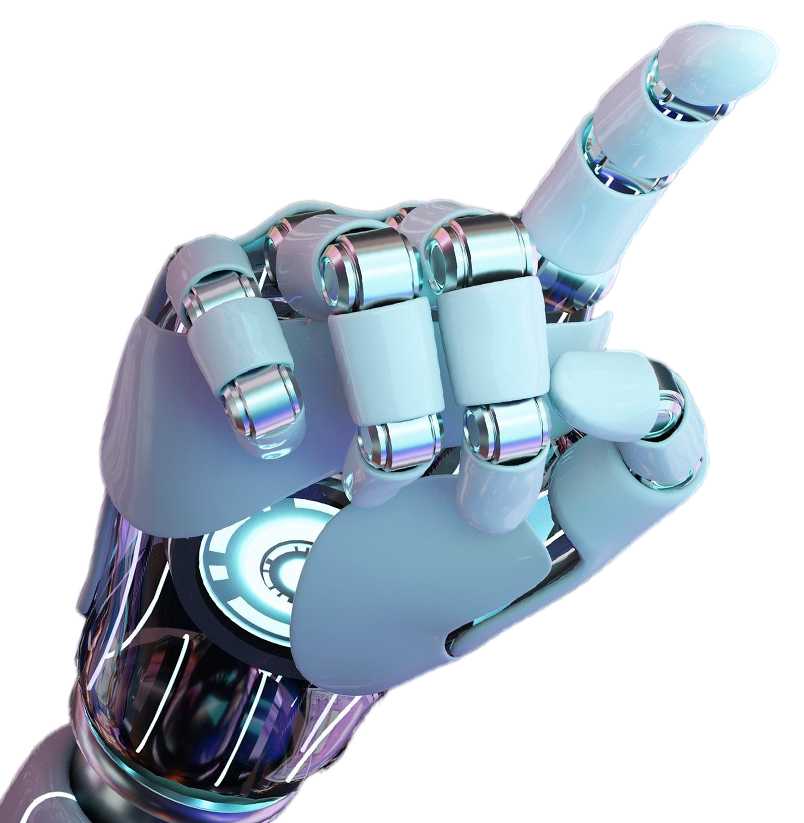
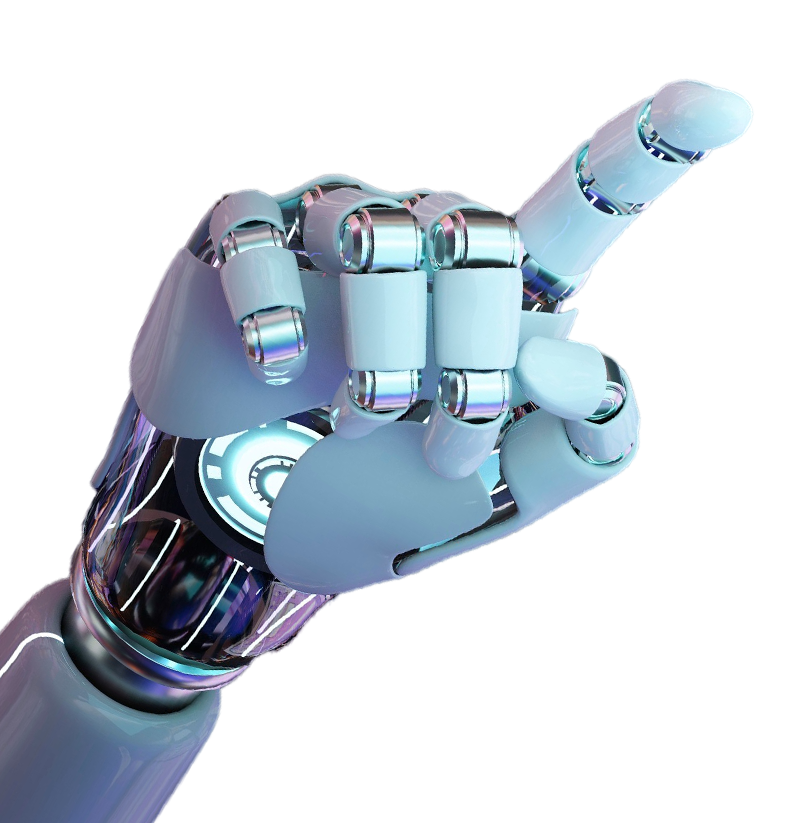
our services section,

diff --git a/src/app/components/ui/OurServices/ourservices.tsx b/src/app/components/ui/OurServices/ourservices.tsx
@@ -27,7 +27,14 @@ export default function OurServices() {
               alt="Description of image"
               width={400}
               height={300}
-              className="object-cover mt-4"
+              className="object-cover hidden md:block mt-4"
+            />
+            <Image
+              src="/resources/cyborgm.png"
+              alt="Description of image"
+              width={400}
+              height={300}
+              className="object-cover block md:hidden mt-4"
             />
           </div>
         </div>
